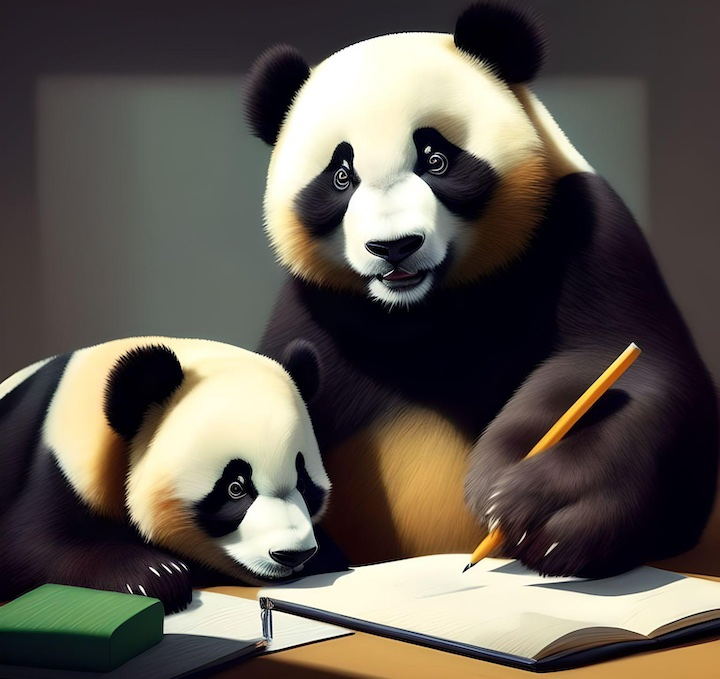
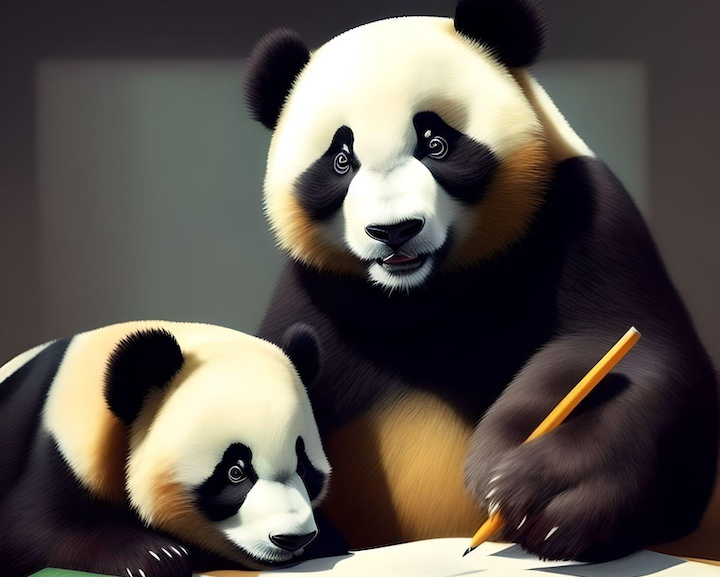
updated bio and adjusted panda pic size

diff --git a/content/english/teacher/vivian-shen.md b/content/english/teacher/vivian-shen.md
@@ -10,7 +10,7 @@ image: "images/teachers/vivian-shen.jpg"
 # course
 course: "Beast Academy Grade 5"
 # biography
-bio: "Rising 9th grader, New Jersey MATHCOUNTS state qualifier, AMC 8 Distinguished Honor Roll and D. E. Shaw Certificate of Excellence, National Science Bowl New Jersey State 3rd place."
+bio: "Rising Sophomore, AIME qualifier, New Jersey MATHCOUNTS state qualifier, AMC 8 Distinguished Honor Roll and D. E. Shaw Certificate of Excellence, National Science Bowl New Jersey State 3rd place."
 
 # interest
 # interest: ["Computer Networking","Computer Security","Human Computer Interfacing"]

diff --git a/content/english/teacher/stephen-zhang.md b/content/english/teacher/stephen-zhang.md
@@ -8,9 +8,9 @@ description : ""
 # teacher portrait
 image: "images/teachers/stephen-zhang.jpg"
 # course
-course: "Geometry I"
+course: ""
 # biography
-bio: "Rising sophomore, AIME and MATHCOUNTS state qualifier, Math Kangaroo national rank #1."
+bio: "Rising Junior, AIME and MATHCOUNTS state qualifier, Math Kangaroo national rank #1."
 # interest
 # interest: ["Computer Networking","Computer Security","Human Computer Interfacing"]
 # contact info

diff --git a/content/english/teacher/brandon-zhang.md b/content/english/teacher/brandon-zhang.md
@@ -8,7 +8,7 @@ description : ""
 # teacher portrait
 image: "images/teachers/brandon-zhang.jpg"
 # course
-course: "Intermediate Algebra"
+course: "Intermediate Algebra and Geometry II"
 # biography
 bio: "I am Brandon Zhang. I am a rising sophomore at Stuyvesant High School in New York City. I have qualified for AIME and MathCounts State. I am delighted to teach Geometry II and Intermediate Algebra this summer."
 # interest

diff --git a/content/english/teacher/eric-shen.md b/content/english/teacher/eric-shen.md
@@ -8,7 +8,7 @@ description : ""
 # teacher portrait
 image: "images/teachers/eric-shen.jpg"
 # course
-course: "Beast Academy"
+course: "Beast Academy Grade 5"
 # biography
 bio: "My name is Eric Shen and I am a rising Junior. I have qualified for AIME and MATHCOUNTS State. In addition to math, I also teach robotic programming."
 # interest
